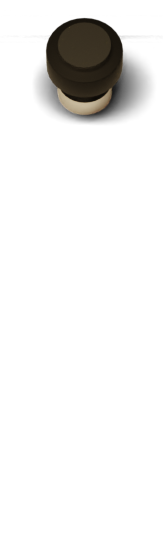
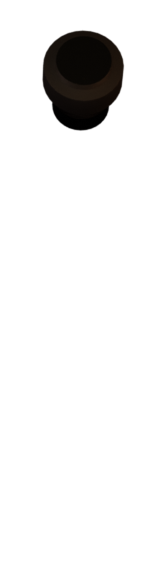
[fix] update img source and css

Changed region(s): [[0.2119, 0.0299, 0.9272, 0.2388]]

diff --git a/pages/record.html b/pages/record.html
@@ -19,6 +19,7 @@
                 <img src="../png/exit_button.png">
             </button>
             <div id="record_cover">
+                <div id ="lp"></div>
                 <div id="tone"></div>
                 <div id="tone_arm"></div>
             </div>
@@ -73,7 +74,7 @@
     $('.list_container').css("background-image", `url(${albumImage})`);
     let listDiv = $("#play_list");
     let listItem = $('<div class="list_item">');
-    // 재생 목록에 추가
+        
     for (let i = 0; i < currentAlbum.songs.length; i++) {
         let title = currentAlbum.songs[i].title;
         listItem.append('<h2 class="title">' + title + '</h2>');
@@ -81,13 +82,12 @@
     }
     $(document).ready(function () {
         let currentAudio = audio
+
         setInterval(function () {
-            // Update current time display
             let currentTime = Math.floor(currentAudio.currentTime);
             let total_time = Math.floor(currentAudio.duration);
             $('#current_time_display').text(formatTime(currentTime));
             $('#total_time_display').text(formatTime(total_time))
-            // Update progress bar
             let barWidth = $('#progress_bar').innerWidth();
             let indicator = $('#progress_indicator').innerWidth();
             let progressWidth = (barWidth * currentAudio.currentTime / currentAudio.duration) || 0;
@@ -112,8 +112,8 @@
 
             if (!toggleTonearm) {
                 $(this).css({ 'transform': 'rotateZ(45deg)' });
-                $(this).css({ 'left': '814px' });
-                $(this).css({ 'top': '6px' });
+                $(this).css({ 'left': '831px' });
+                $(this).css({ 'top': '28px' });
 
                 event.stopPropagation();
                 toggleTonearm = true;
@@ -121,7 +121,8 @@
                 btnPlayImg.attr('src', '../png/stop_button.png').appendTo('#btn_play');
             } else {
                 $(this).css({ 'transform': 'rotateZ(0deg)' });
-                $(this).css({ 'left': '771px' });
+                $(this).css({ 'left': '788px' });
+                $(this).css({ 'top': '15px' });
                 event.stopPropagation();
                 toggleTonearm = false;
                 currentAudio.pause();
@@ -132,7 +133,6 @@
         $('#record_cover').click(function () {
             if (!isOpened) {
                 $(this).css({ 'transform': 'rotateX(180deg)' })
-                //$(this).css({'background':'royalblue'});
                 $("#tone_arm").css({ 'visibility': 'hidden' }).fadeOut(500);
                 $("#tone").css({ 'visibility': 'hidden' }).fadeOut(500);
                 isOpened = true;
@@ -158,8 +158,8 @@
 
             if (currentAudio.paused) {
                 $("#tone_arm").css({ 'transform': 'rotateZ(45deg)' });
-                $("#tone_arm").css({ 'left': '814px' });
-                $("#tone_arm").css({ 'top': '6px' });
+                $("#tone_arm").css({ 'left': '831px' });
+                $("#tone_arm").css({ 'top': '28px' });
                 btnPlayImg.attr('src', '../png/stop_button.png').appendTo('#btn_play');
                 event.stopPropagation();
                 toggleTonearm = true;
@@ -167,7 +167,8 @@
                 getCurrentTitle(title);
             } else {
                 $("#tone_arm").css({ 'transform': 'rotateZ(0deg)' });
-                $("#tone_arm").css({ 'left': '771px' });
+                $("#tone_arm").css({ 'left': '788px' });
+                $("#tone_arm").css({ 'top': '15px' });
                 btnPlayImg.attr('src', '../png/play_arrow.png').appendTo('#btn_play');
                 event.stopPropagation();
                 toggleTonearm = false;

diff --git a/styles/record.css b/styles/record.css
@@ -84,25 +84,24 @@
 #record_cover {
     background-image: url("../png/recordcover.png");
     z-index: 1;
-    width: 1002px;
-    height: 650px;
+    width: 1023px;
+    height: 698px;
     flex-shrink: 0;
-
     position: absolute;
-    left: 90px;
-    top: 105px;
+    left: 172px;
+    top: 72px;
     transform-origin: center top;
     transition: 2s;
 }
 
 #tone_arm {
     background-image: url("../png/tonearm.png");
-    width: 163px;
-    height: 536px;
+    width: 151px;
+    height: 583px;
     flex-shrink: 0;
     position: absolute;
-    left: 771px;
-    top: -11px;
+    left: 788px;
+    top: 13px;
     flex-shrink: 0;
     z-index: 2;
     transition: 1s;
@@ -113,10 +112,10 @@
     background-image: url("../png/tone.png");
     position: absolute;
     z-index: 2;
-    left: 771px;
-    top: -11px;
-    width: 163px;
-    height: 536px;
+    left: 788px;
+    top: 11px;
+    width: 151px;
+    height: 583px;
     flex-shrink: 0;
     transition: 1s;
 }
@@ -158,46 +157,59 @@
     font-weight: 400;
     line-height: normal;
 }
+
 #progress_bar_container {
     display: flex;
     align-items: center;
     width: 332px;
-    margin: 0 auto; 
+    margin: 0 auto;
 }
 
 
 #progress_indicator {
-    background: #FFFFFF; 
+    background: #FFFFFF;
     height: 100%;
-    border-radius: 10px; 
-    width: 0%; 
-    position: absolute; 
+    border-radius: 10px;
+    width: 0%;
+    position: absolute;
 }
 
 #progress_indicator::after {
     content: '';
     position: absolute;
     top: -5px;
-    left: 100%; 
+    left: 100%;
     transform: translateX(-50%);
     width: 10px;
     height: 10px;
     background: white;
     border: 3px solid #d2d2d2;
     border-radius: 50%;
-    box-shadow: 0 0 5px rgba(0,0,0,0.2);
+    box-shadow: 0 0 5px rgba(0, 0, 0, 0.2);
 }
 
 #progress_bar {
     flex-grow: 1;
-    background: rgba(255, 255, 255, 0.50); 
+    background: rgba(255, 255, 255, 0.50);
     height: 5px;
-    border-radius: 10px; 
+    border-radius: 10px;
     position: relative;
-    margin: 0 15px; 
+    margin: 0 15px;
 }
 
-#current_time_display, #total_time_display {
-    color: #FFFFFF; /* 시간 텍스트 색상 */
+#current_time_display,
+#total_time_display {
+    color: #FFFFFF;
+    /* 시간 텍스트 색상 */
     font-size: 14px;
+}
+
+#lp {
+    background-image: url("../png/lp.png");
+    width: 629px;
+    height: 572.5px;
+    flex-shrink: 0;
+    position: inherit;
+    top: 21px;
+    left: 68px;
 }
